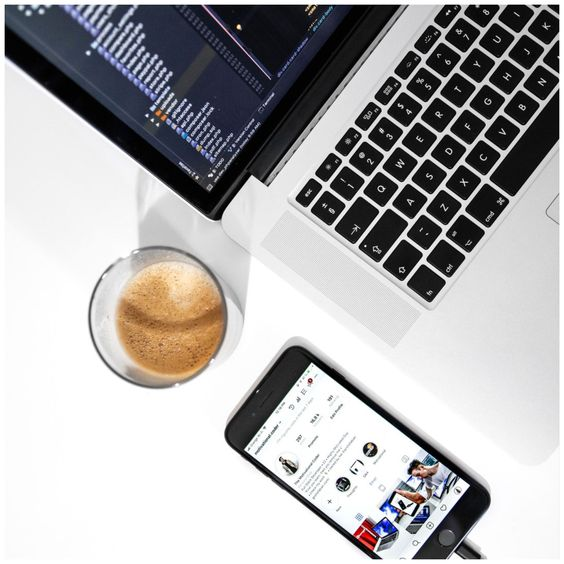
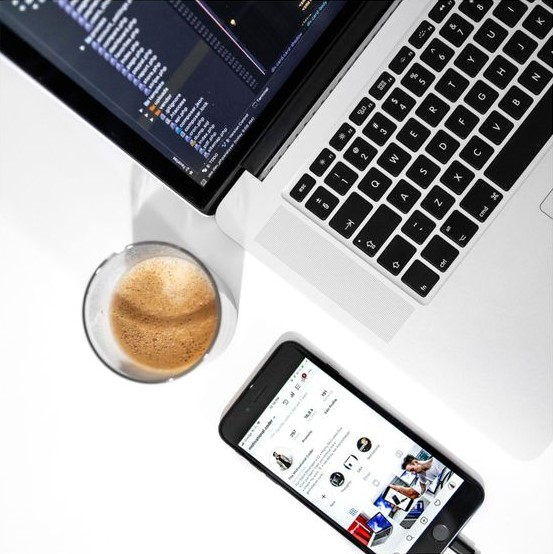
Experiences component

diff --git a/src/components/ExperienceComponent1.vue b/src/components/ExperienceComponent1.vue
@@ -1,0 +1,45 @@
+<script setup>
+import { ref } from 'vue';
+
+let experiences = ref([
+    {
+        logo: '/src/assets/challenge/adidas.jpeg',
+        duration: 'Feb 2017 - Current',
+        post: 'Front-end developer',
+        altImg: 'Adidas logo',
+        description: 'Donec aliquam est dui, vel vestibulum diam sollicitudin id. Quisque feugiat malesuada molestie.'
+    },
+    {
+        logo: '/src/assets/challenge/H_M.png',
+        duration: 'Aug 2016 - Feb 2017',
+        post: 'Full-stack developer',
+        altImg: 'H&M logo',
+        description: 'Donec aliquam est dui, vel vestibulum diam sollicitudin id. Quisque feugiat malesuada molestie.'
+    },
+    {
+        logo: '/src/assets/challenge/Nivea.jpg',
+        duration: 'Jun 2015 - Aug 2016',
+        post: 'Junior front-end developer',
+        altImg: 'Nivea logo',
+        description: 'Donec aliquam est dui, vel vestibulum diam sollicitudin id. Quisque feugiat malesuada molestie.'
+    }
+])
+</script>
+
+<template>
+  <h2 class="text-slate-500 font-fam1 font-medium text-2xl">Experiences</h2>
+  <div class="flex justify-between mt-7">
+    <div v-for="(experience, index) in experiences" :key="index" class="flex gap-4">
+        <img :src="experience.logo" :alt="experience.altImg" class="max-w-[84px] max-h-[84px]">
+        <div>
+            <p class="mt-[18px] font-fam1 font-medium text-sm text-[#828282]">{{ experience.duration }}</p>
+            <p class="mt-3 font-fam1 font-semibold text-base">{{ experience.post }}</p>
+            <p class="mt-[33px] max-w-[168px] font-fam1 font-medium text-base text-[#828282]">{{ experience.description }}</p>
+        </div>
+    </div>
+  </div>
+</template>
+
+<style scoped>
+
+</style>

diff --git a/src/components/ExperienceComponent2.vue b/src/components/ExperienceComponent2.vue
@@ -1,0 +1,43 @@
+<script setup>
+import { ref } from 'vue';
+
+let experiences = ref([
+    {
+        logo: '/src/assets/challenge/adidas.jpeg',
+        duration: 'Feb 2017 - Current',
+        post: 'Front-end developer',
+        altImg: 'Adidas logo',
+        description: 'Donec aliquam est dui, vel vestibulum diam sollicitudin id. Quisque feugiat malesuada molestie.'
+    },
+    {
+        logo: '/src/assets/challenge/H_M.png',
+        duration: 'Aug 2016 - Feb 2017',
+        post: 'Full-stack developer',
+        altImg: 'H&M logo',
+        description: 'Donec aliquam est dui, vel vestibulum diam sollicitudin id. Quisque feugiat malesuada molestie.'
+    },
+    {
+        logo: '/src/assets/challenge/Nivea.jpg',
+        duration: 'Jun 2015 - Aug 2016',
+        post: 'Junior front-end developer',
+        altImg: 'Nivea logo',
+        description: 'Donec aliquam est dui, vel vestibulum diam sollicitudin id. Quisque feugiat malesuada molestie.'
+    }
+])
+</script>
+
+<template>
+    <h2 class="text-slate-500 font-fam1 font-medium text-2xl">Experiences</h2>
+    <div v-for="(experience, index) in experiences" :key="index" class="flex gap-4 mt-10">
+      <img :src="experience.logo" :alt="experience.altImg" class="mt-7 max-w-[84px] max-h-[84px]">
+      <div>
+          <p class="mt-[18px] font-fam1 font-medium text-sm text-[#828282]">{{ experience.duration }}</p>
+          <p class="mt-3 font-fam1 font-semibold text-base">{{ experience.post }}</p>
+          <p class="mt-[33px] max-w-[273px] font-fam1 font-medium text-base text-[#828282]">{{ experience.description }}</p>
+      </div>
+    </div>
+</template>
+
+<style scoped>
+
+</style>

diff --git a/src/components/BlogComponent2.vue b/src/components/BlogComponent2.vue
@@ -1,0 +1,24 @@
+<script setup>
+
+</script>
+
+<template>
+    <div class="flex justify-between font-fam1">
+        <div>
+            <p class="text-black/20">Blog</p>
+            <p class="max-w-[178px] font-medium text-2xl mt-[30px]">How to organize your CSS</p>
+        </div>
+        <div class="overflow-hidden rounded-l-xl max-w-[483px] max-h-[337px]">
+            <img src="../assets/challenge/image1.jpg" alt="Coffee laptop and phone">
+        </div>
+    </div>
+    <p class="mt-[26px] font-normal text-base mb-10 max-w-[492px] text-gray-500/80">
+        In this article I tell the story about Proin eu justo sit amet lacus bibendum tincidunt. Vivamus non volutpat nisl, a luctus mi. <br>
+        <br>Donec aliquam est dui, vel vestibulum diam sollicitudin id. Quisque feugiat malesuada molestie.
+    </p>
+    <a href="https://dev.to" class="text-[#2F80ED] text-base font-medium">dev.to</a>
+</template>
+
+<style scoped>
+
+</style>

diff --git a/src/App.vue b/src/App.vue
@@ -4,7 +4,8 @@
   import RealisationPage1 from './components/RealisationPage1.vue';
   import LanguageLevel1 from './components/LanguageLevel1.vue';
   import LanguageLevel2 from './components/LanguageLevel2.vue';
-  import BlogComponent1 from './components/BlogComponent1.vue';
+  import BlogComponent2 from './components/BlogComponent2.vue';
+  import ExperienceComponent2 from './components/ExperienceComponent2.vue';
 
   let language = "#HTML #CSS #Tailwindcss #Vanilla Js"
   let title = "404 Not Found"
@@ -18,7 +19,7 @@
 </script>
 
 <template>
-  <BlogComponent1/>
+  <ExperienceComponent2/>
 </template>
 
 <style scoped>

diff --git a/src/components/BlogComponent1.vue b/src/components/BlogComponent1.vue
@@ -13,7 +13,7 @@
             </p>
             <a href="https://dev.to" class="text-[#2F80ED] text-base font-medium">dev.to</a>
         </div>
-        <div class="overflow-hidden rounded-l-xl w-[627px] h-[380.202px]">
+        <div class="overflow-hidden rounded-l-xl max-w-[627px] max-h-[380.202px]">
             <img src="../assets/challenge/coffee.jpg" class="w-full" alt="Coffee laptop and phone">
         </div>
     </div>
